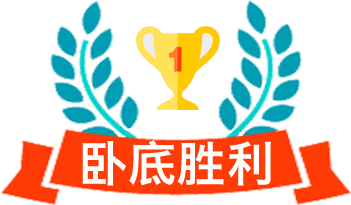
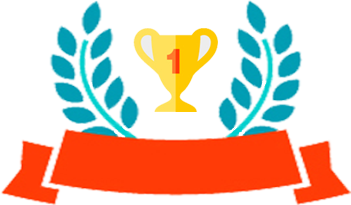
zidong

diff --git a/task2/shengliye.html b/task2/shengliye.html
@@ -26,17 +26,18 @@
 </header>
 <main id="main">
     <div class="m-count--box">
+        <h2 id="winnerDom"></h2>
         <p class="m-count-notice--p">
             太棒了!你知道么？在捉鬼游戏中只有20%的卧底取得游戏最终的胜利哦！
         </p>
         <table class="m-count-tab">
             <tr><td colspan="3">本次游戏共计用时0小时25分钟</td></tr>
-            <tr><td>杀&nbsp;手0人</td>
-                <td>警&nbsp;察1人</td>
-                <td>平&nbsp;民6人</td>
+            <tr><td>杀&nbsp;手<span id="killerAmountDom"></span>人</td>
+                <td>警&nbsp;察0人</td>
+                <td>平&nbsp;民<span id="commonPeopleAmountDom"></span>人</td>
             </tr>
             <tr><td>狙击手0人</td>
-                <td>医&nbsp;生1人</td>
+                <td>医&nbsp;生0人</td>
             </tr>
             <tr><td colspan="2">卧底词汇：爱新觉罗</td> </tr>
             <tr><td colspan="2">水民词汇：努尔哈赤</td> </tr>

diff --git a/task2/js/shengliye.js b/task2/js/shengliye.js
@@ -2,9 +2,28 @@
  * Created by 1 on 2017/3/10.
  */
 var gamerObj=JSON.parse(localStorage.gamerObjStorage);
-// var winner=localStorage.winner;
+var winner=localStorage.winner;
 var gamerAmount=gamerObj.length;
+//写胜利玩家
+function writeWinner(){
+    if(winner="killer"){$("#winnerDom").html("杀手胜利")}
+    else{$("#winnerDom").html("平民胜利")}
+}
+writeWinner();//谁胜利，写入
+//计算角色玩家数量
+var killerAmount=0;
+var commonPeopleAmount=0;
+for(var i=0;i<gamerAmount;i++){
+    if(gamerObj[i].identity=="杀手"){killerAmount++}
+    else{commonPeopleAmount++}
+}
 
+
+function writeAmount() {
+    $("#killerAmountDom").html(killerAmount);
+    $("#commonPeopleAmountDom").html(commonPeopleAmount);
+}
+writeAmount();
 function createList(n,a,b){
     $("#main").append(
         "<div class='m-detail-box'>" +

diff --git a/task2/layout/shengliye.css b/task2/layout/shengliye.css
@@ -4,11 +4,13 @@
 .h-home--png{
     float: left;
     margin-left: .20rem;
+    margin-top: .10rem;
     height: .40rem;
 }
 .h-notice--png{
     float: right;
     margin-right: .20rem;
+    margin-top: .10rem;
     height: .40rem;
 }
 /*************main**********/
@@ -23,8 +25,13 @@
     background: url(../pic/winner.png)no-repeat top;
     background-size: 3.51rem 2.05rem;
 }
+#winnerDom{
+    padding-top: 1.45rem;
+    text-align: center;
+    color : #fff;
+    margin-bottom: .20rem
+}
 .m-count-notice--p{
-    padding-top: 2.20rem;
     margin-bottom: .40rem;
     line-height: .40rem;
     font-size: .32rem;
